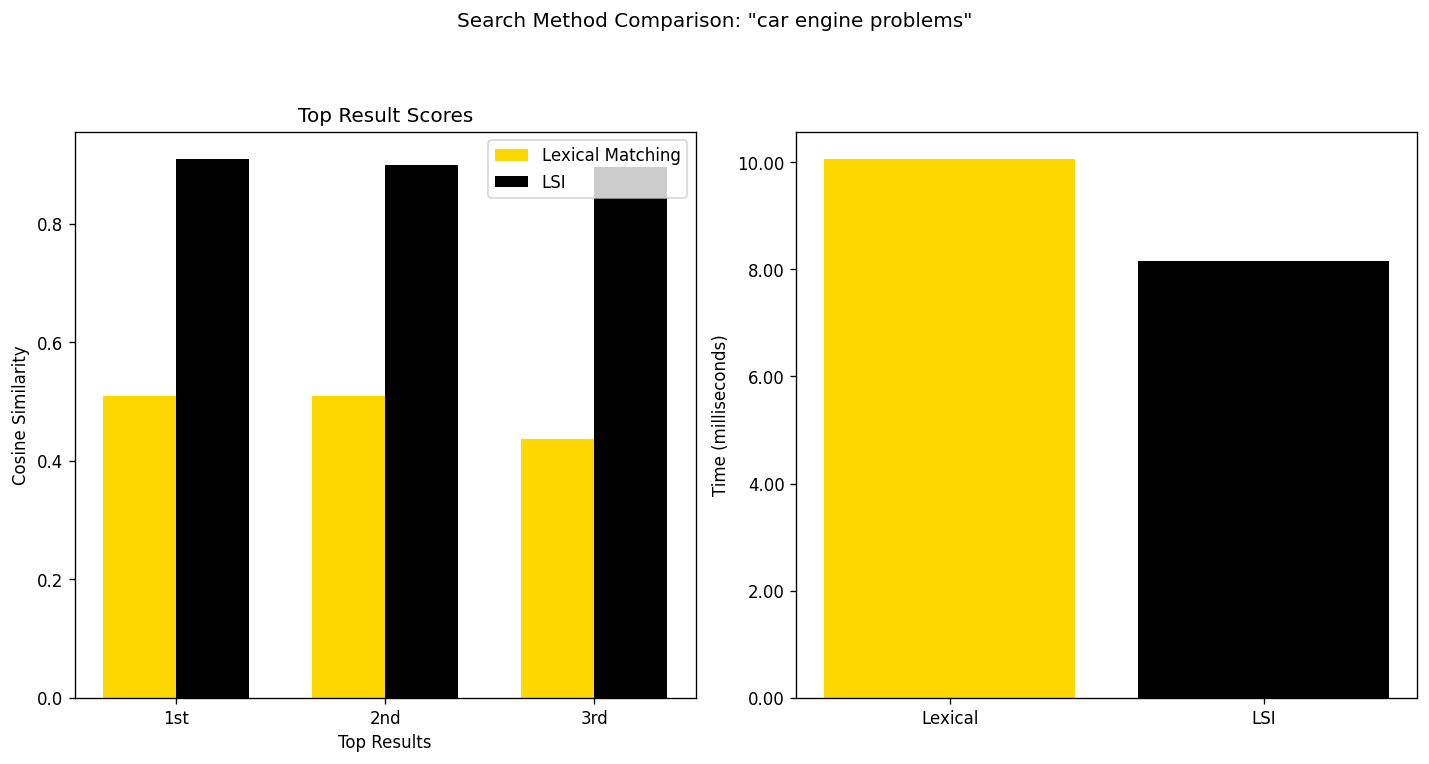
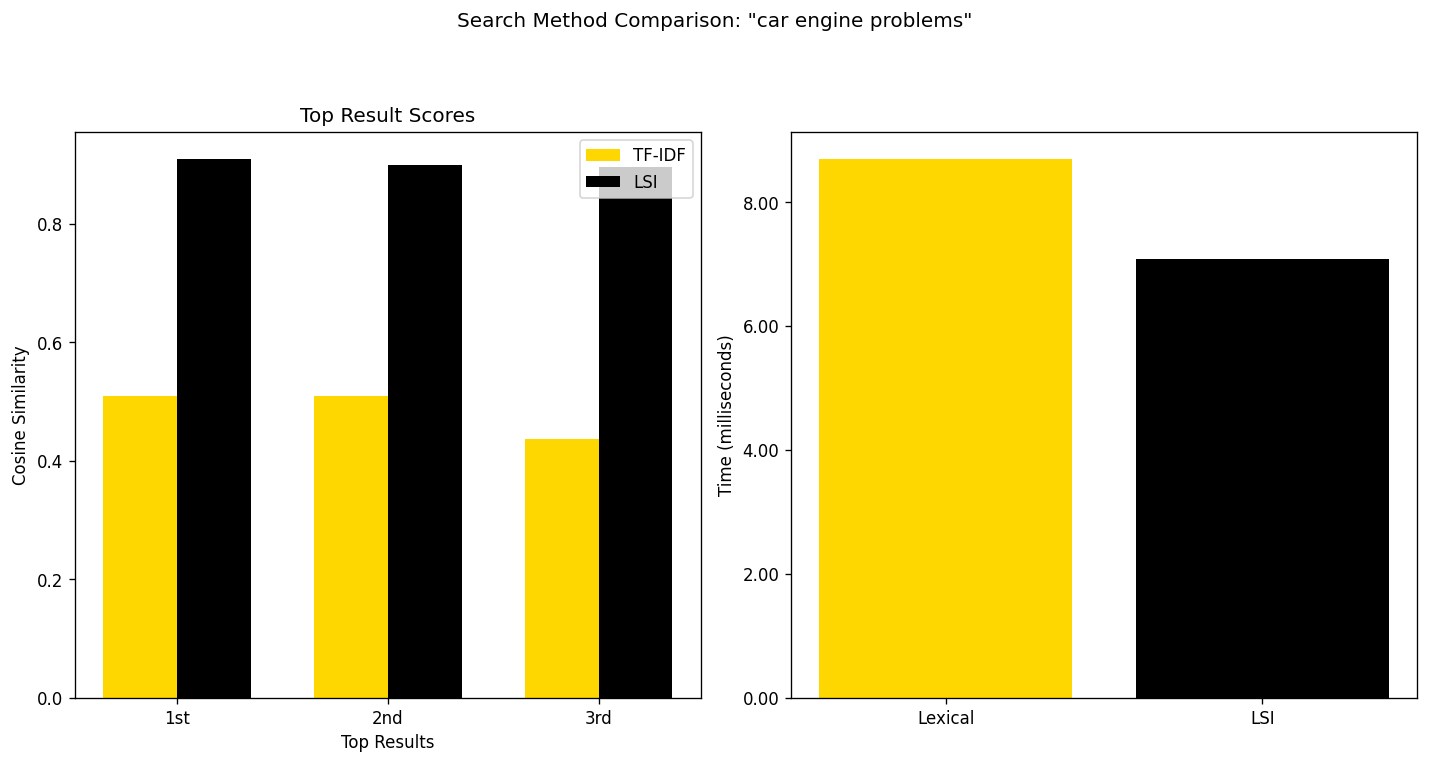
fixed graph

diff --git a/classes/analyzer.py b/classes/analyzer.py
@@ -24,13 +24,12 @@ class Analyzer:
             os.makedirs(dir, exist_ok=True)
     
     def plot_comparison(self, query, lex_scores, lsi_scores, lex_time, lsi_time):
-        """Generate and save comparison plot with black and gold bars only"""
         plt.figure(figsize=(12, 6))
         
         plt.subplot(1, 2, 1)
         x = np.arange(3)  # Top 3 results
         width = 0.35
-        plt.bar(x - width/2, lex_scores[:3], width, label='Lexical Matching', color=self.GOLD)
+        plt.bar(x - width/2, lex_scores[:3], width, label='TF-IDF', color=self.GOLD)
         plt.bar(x + width/2, lsi_scores[:3], width, label='LSI', color=self.BLACK)
         plt.xlabel('Top Results')
         plt.ylabel('Cosine Similarity')
@@ -95,7 +94,7 @@ class Analyzer:
         plt.close()
     
     def generate_natural_queries(self):
-        """Generate 50 natural language search queries"""
+        print("Generate 50 natural language search queries")
         return [
             "How does NASA prepare for space shuttle launches?",
             "Common driver issues in Windows operating systems",

diff --git a/README.md b/README.md
@@ -1,2 +1,2 @@
 # Latent-Semantic-Indexing
-This is my project for APPM 3310: Matrix Methods and Applications. We are writing a report investigating Latent Semantic Indexing and its application in intelligent document retrieval. This project is a demonstration of what we have learned from our research. 
+This is my project for APPM 3310: Matrix Methods and Applications. We are writing a report investigating Latent Semantic Indexing and its application in intelligent document retrieval. One focus of our project will be on comparing LSI to TF-IDF.
